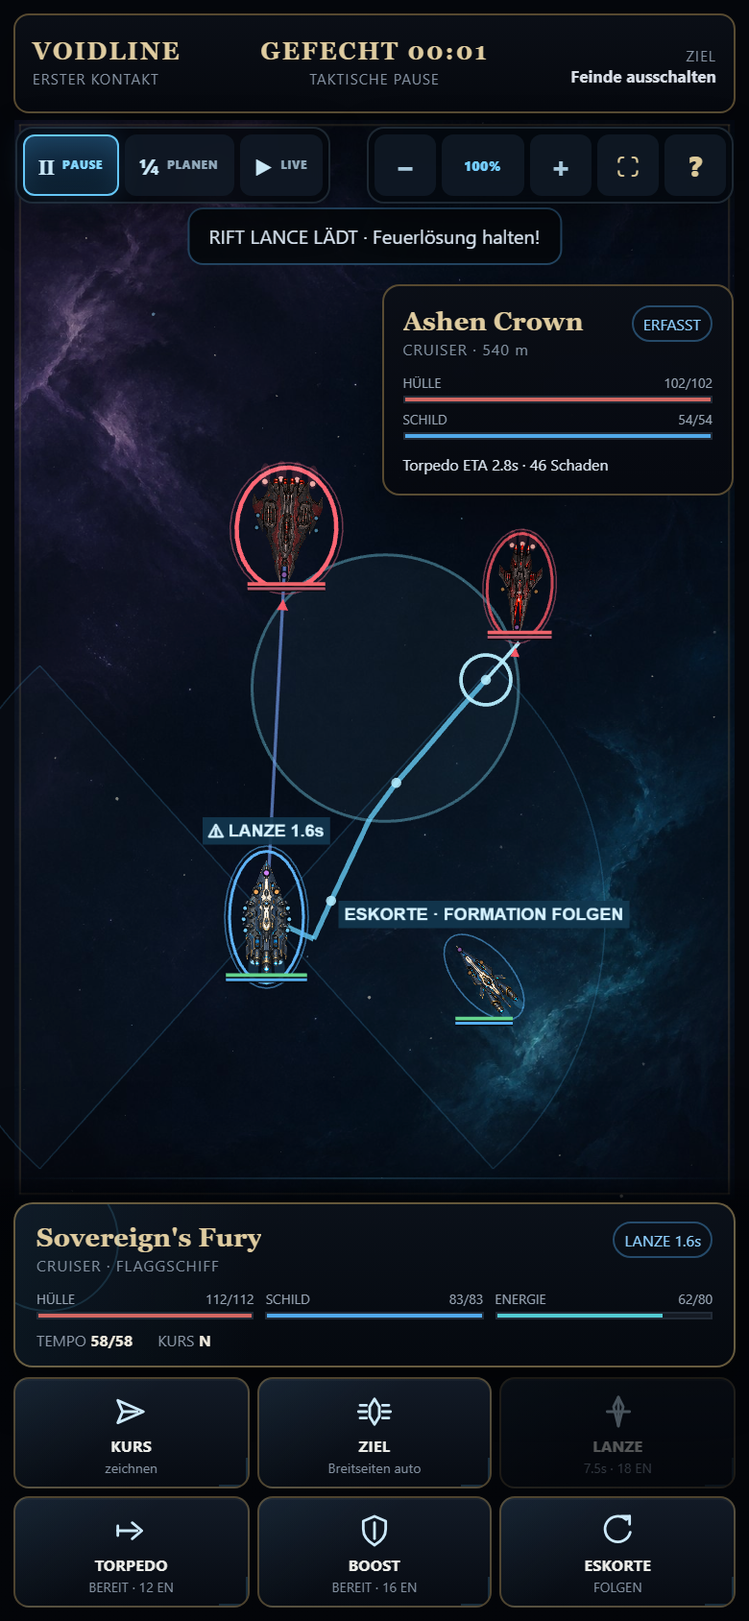
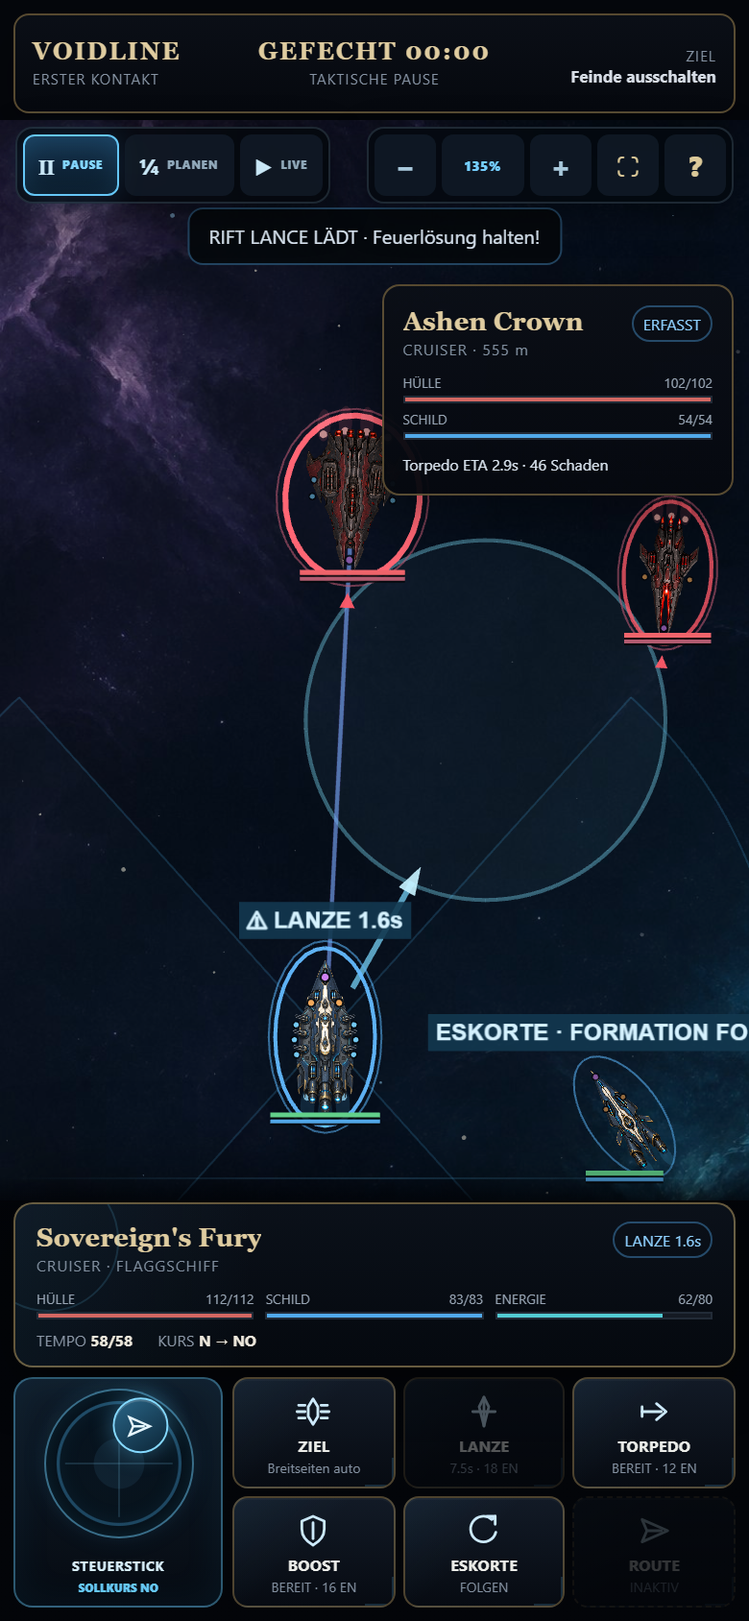
Document joystick control experiment

diff --git a/docs/planning/TOP_20_LEVERS.md b/docs/planning/TOP_20_LEVERS.md
@@ -8,31 +8,31 @@ Bewertungsbasis: aktueller 390×844-Build, drei reproduzierbare Screenshots, aut
 
 | Bereich | Nähe zum Zielniveau | Einordnung |
 |---|---:|---|
-| Mobile Layout und Bedienbarkeit | 82 % | volle Breite, Safe Areas, Pause/Slow/Live, Pinch und große Touch-Ziele funktionieren |
+| Mobile Layout und Bedienbarkeit | 83 % | volle Breite, Safe Areas, Zwei-Daumen-HUD, Pause/Slow/Live und Pinch funktionieren; Joystick noch nicht extern validiert |
 | Informationshierarchie und HUD | 68 % | deutlich strukturierter und eigenständig; Materialtiefe, Micro-Motion und Onboarding fehlen |
 | Schiffssilhouetten und Hardpoints | 72 % | vier originale, lesbare Schiffe; Damage States und modulare Varianten fehlen |
 | Battlefield und Atmosphäre | 62 % | hochwertige Basis und gute Kontraste; räumliche Tiefe und taktische Vielfalt fehlen |
-| Combat-Regeln und Flow | 70 % | Echtzeit-Pivot löst Statik; Balance und Verständlichkeit sind noch nicht extern validiert |
+| Combat-Regeln und Flow | 72 % | Echtzeit-Pivot und persistenter Sollkurs lösen Statik; Steuergefühl, Tempo und Verständlichkeit sind noch nicht extern validiert |
 | VFX und Treffergefühl | 38 % | klare Prototyp-Effekte vorhanden, aber noch keine Produktionschoreografie |
 | Audio | 0 % | größter vollständig fehlender Qualitätsmultiplikator |
 | Meta-Loop und Progression | 22 % | Auswahl/Preview vorhanden, Results, echte Upgrades, Save und Replay fehlen |
-| Gesamtprodukt | **ca. 57 %** | optisch schon klar über Greybox, aber noch kein veröffentlichungsreifer Vertical Slice |
+| Gesamtprodukt | **ca. 58 %** | optisch schon klar über Greybox, aber Steuerung, Audio, Combat Feel und Produktloop sind noch nicht release-reif |
 
-Die 57 % sind keine Zeitschätzung. Sie beschreiben die wahrnehmbare Produktreife gegenüber dem Zielbild. Audio, Reaktion, Onboarding und ein geschlossener Loop wiegen stärker als zusätzliche statische Assets.
+Die 58 % sind keine Zeitschätzung. Sie beschreiben die wahrnehmbare Produktreife gegenüber dem Zielbild. Audio, Reaktion, Onboarding und ein geschlossener Loop wiegen stärker als zusätzliche statische Assets.
 
 ## Die nächsten 20 Hebel in Prioritätsreihenfolge
 
 | # | Hebel | Warum jetzt | Messbare Abnahme |
 |---:|---|---|---|
-| 1 | 60-Sekunden-Kontext-Onboarding | Der neue Flow ist grundlegend anders; Verständlichkeit darf nicht von der Hilfeseite abhängen. | 4/5 Erstspieler setzen Kurs, Ziel und Pause ohne Erklärung; Erstaktion ≤20 s. |
-| 2 | Echter Mobile-Playtest plus Session-Telemetrie | Der Pivot ist technisch validiert, aber Tempo und Entscheidungsdichte noch nicht menschlich. | Fünf Runs mit Erstaktion, Ersttreffer, Kampfzeit, Fehl-Taps, Kurswechseln und Kurzinterview dokumentiert. |
+| 1 | Joystick-Test und Control Decision | Der neue Stick ist bewusst ein Experiment; weitere Systeme sollten nicht auf ungeprüfter Eingabe aufbauen. | Drei kurze Mobile-Runs klären Richtungswahl, Kurs-Halten, Kamera und Wunsch nach Schub; Entscheidung für Joystick, Joystick + Schub oder Pause-Route dokumentiert. |
+| 2 | 60-Sekunden-Kontext-Onboarding plus Session-Telemetrie | Verständlichkeit darf nicht von der Hilfeseite abhängen und braucht reale Daten. | 4/5 Erstspieler setzen Sollkurs, Ziel und Pause ohne Erklärung; Erstaktion ≤20 s; Fehl-Taps und Kurskorrekturen protokolliert. |
 | 3 | Lance-Telegraph als audiovisuelle Referenzqualität | Er ist die zentrale Reaktionsentscheidung und definiert die Qualität aller späteren Telegraphs. | Warm-up, Richtungsanzeige, Riser, Release und Impact sind ohne HUD verständlich; Reaktionsfenster messbar. |
 | 4 | Broadside-Salvenchoreografie | Auto-Feuer muss Gewicht geben, ohne Aufmerksamkeit zu stehlen. | Hardpoints feuern gestaffelt, Recoil/Travel/Impact sind klassenspezifisch und gepoolt. |
 | 5 | Torpedo-Readability und Zielwarnung | Physische Torpedos sind ein Kernversprechen und brauchen eine klare Reise statt nur einen Marker. | Trail, Turn, Warnung, ETA und Explosion sind bei 100–180 % Zoom durchgängig verfolgbar. |
 | 6 | Original-Audio-Foundation | Audio ist der größte noch fehlende Qualitätsmultiplikator. | Vier Busse, Mobile-Unlock, Suspend/Resume, Mute/Volume und erste originale UI-/Weapon-/Impact-Sets. |
 | 7 | Trefferreaktionen und Damage States | Treffer verändern aktuell Zahlen stärker als das sichtbare Schiff. | Shield deformation, Hull flash, Debris und intakt/beschädigt/kritisch pro Schiff lesbar. |
 | 8 | Kamera-Follow und Action Framing | Die starre Gesamtansicht begrenzt Dynamik, zu viel Autofokus würde Touch-Kontrolle stören. | Sanftes Flaggschiff-/Ziel-Framing, kurzer begrenzter Impact-Impuls, Pinch hat immer Vorrang. |
-| 9 | Route/Pan-Gesten sauber trennen | Mit mehr Zoom darf Kurszeichnen nicht mit Kameranavigation kollidieren. | Ein-Finger-Kurs nur im Modus/ab Schiff, klarer Cancel, Zwei-Finger-Pan/Pinch ohne Fehlroute. |
+| 9 | Joystick-Ergonomie und reversible Route | Dead Zone, Reichweite und Halteverhalten müssen auf kleinen Phones sitzen; die Route bleibt bis zur Entscheidung verfügbar. | Keine Fehlsteuerung neben dem Stick, Pinch bleibt konfliktfrei; optionaler Schub und Pause-Route werden gegen dieselben Testkriterien bewertet. |
 | 10 | Escort-Direktiven taktisch differenzieren | Vier Labels reichen nicht; jede Direktive muss eine echte Positionsentscheidung erzeugen. | Folgen, beide Flanken und Schutz haben messbar andere Abstände, Ziele, Risiko und VFX-Feedback. |
 | 11 | Gegnerrollen und Telegraph-Grammatik | Gegner unterscheiden sich optisch, aber noch nicht deutlich genug im Verhalten. | Cruiser und Destroyer werden nach 30 s korrekt beschrieben; Symbole/Formen ergänzen Farbe. |
 | 12 | Encounter-Geometrie und zweites Terrain | Ein Kreis mit Schadensreduktion trägt keine dauerhafte Positionierung. | Zweites Element erzwingt mindestens zwei alternative Routen und verändert Waffen-/Formationstiming. |
@@ -49,7 +49,7 @@ Die 57 % sind keine Zeitschätzung. Sie beschreiben die wahrnehmbare Produktreif
 
 ### Paket 1 — Verständlichkeit und Messung
 
-Hebel 1, 2, 9, 15. Erst damit wissen wir, ob der neue Kern tatsächlich die richtige Dynamik erzeugt.
+Hebel 1, 2, 9, 15. Erst damit wissen wir, ob Joystick und Echtzeitkern tatsächlich die richtige Dynamik erzeugen.
 
 ### Paket 2 — Wahrnehmbares Combat Feel
 

diff --git a/README.md b/README.md
@@ -2,25 +2,25 @@
 
 [![Deploy GitHub Pages](https://github.com/emfau88/Voidline-Tactic/actions/workflows/deploy-pages.yml/badge.svg)](https://github.com/emfau88/Voidline-Tactic/actions/workflows/deploy-pages.yml)
 
-Mobile-first 2D-Flottentaktik in langsamer Echtzeit mit taktischer Pause: Du steuerst ein Flaggschiff direkt, zeichnest seinen Kurs, markierst Feuerziele und löst entscheidende Systeme selbst aus. Die Eskorte handelt halbautonom, Standardbatterien feuern aus passenden Seitenbögen und gegnerische Spezialangriffe werden sichtbar angekündigt.
+Mobile-first 2D-Flottentaktik in langsamer Echtzeit mit taktischer Pause: Du steuerst den Sollkurs eines Flaggschiffs per virtuellem Joystick, markierst Feuerziele und löst entscheidende Systeme selbst aus. Die Eskorte handelt halbautonom, Standardbatterien feuern aus passenden Seitenbögen und gegnerische Spezialangriffe werden sichtbar angekündigt.
 
 ## [▶ Jetzt im Browser spielen](https://emfau88.github.io/Voidline-Tactic/)
 
-Der aktuelle Stand ist ein bedienbarer 2-gegen-2-Vertical-Slice mit Startschiffwahl, zwei Flaggschiff-Doktrinen, direkten Kursen, Fokusziel, vier Eskorte-Befehlen, Auto-Breitseiten, aufladbarer Rift Lance, physischen Void Torpedoes und aktivem Schild-Boost. **Pause**, **¼-Tempo** und **Live** können jederzeit gewechselt werden.
+Der aktuelle Stand ist ein bedienbarer 2-gegen-2-Vertical-Slice mit Startschiffwahl, zwei Flaggschiff-Doktrinen, direkter Joystick-Steuerung, Fokusziel, vier Eskorte-Befehlen, Auto-Breitseiten, aufladbarer Rift Lance, physischen Void Torpedoes und aktivem Schild-Boost. **Pause**, **¼-Tempo** und **Live** können jederzeit gewechselt werden. Die frühere Kurszeichnung bleibt im Code erhalten, ist für diesen Steuerungstest aber bewusst inaktiv.
 
-Die App nutzt auf Phones die volle verfügbare Breite, rendert bis zu 2× HiDPI und bietet 80–180 % taktischen Zoom per Zwei-Finger-Geste, Buttons und Mausrad. Browser-Vollbild wird verwendet, wenn die Plattform ihn für Webseiten erlaubt; auf iOS ergänzt das installierbare Web-App-Manifest den „Zum Home-Bildschirm“-Fallback.
+Die App nutzt auf Phones die volle verfügbare Breite, startet mit einer nahen 135-%-Kamera, rendert bis zu 2× HiDPI und bietet 80–180 % taktischen Zoom per Zwei-Finger-Geste, Buttons und Mausrad. Browser-Vollbild wird verwendet, wenn die Plattform ihn für Webseiten erlaubt; auf iOS ergänzt das installierbare Web-App-Manifest den „Zum Home-Bildschirm“-Fallback.
 
 ## Aktueller Mobile-Build
 
-| Startschiff und Refit-Vorschau | Laufendes 2-gegen-2-Gefecht | Pause, Kurs und Lance-Telegraph |
+| Startschiff und Refit-Vorschau | Laufendes 2-gegen-2-Gefecht | Pause, Joystick und Lance-Telegraph |
 |---|---|---|
-| [<img src="docs/screenshots/mobile-fleet-selection.png" alt="Mobile Startschiffwahl mit Refit-Vorschau" width="260">](docs/screenshots/mobile-fleet-selection.png) | [<img src="docs/screenshots/mobile-combat-overview.png" alt="Mobile Echtzeit-Gefechtsübersicht mit gut markierten Gegnern" width="260">](docs/screenshots/mobile-combat-overview.png) | [<img src="docs/screenshots/mobile-target-preview.png" alt="Taktische Pause mit gezeichnetem Kurs, Zielkarte und Lance-Telegraph" width="260">](docs/screenshots/mobile-target-preview.png) |
+| [<img src="docs/screenshots/mobile-fleet-selection.png" alt="Mobile Startschiffwahl mit Refit-Vorschau" width="260">](docs/screenshots/mobile-fleet-selection.png) | [<img src="docs/screenshots/mobile-combat-overview.png" alt="Mobile Echtzeit-Gefechtsübersicht mit Joystick, Sollkurs und gut markierten Gegnern" width="260">](docs/screenshots/mobile-combat-overview.png) | [<img src="docs/screenshots/mobile-target-preview.png" alt="Taktische Pause mit Joystick-Sollkurs, Zielkarte und Lance-Telegraph" width="260">](docs/screenshots/mobile-target-preview.png) |
 
 Die Galerie wird reproduzierbar mit `npm run capture:readme` gegen den lokalen Server oder über `CAPTURE_BASE_URL` gegen einen anderen Build aktualisiert.
 
 ## So funktioniert der Kampf
 
-1. **Kurs:** Vom Flaggschiff ziehen oder KURS wählen und eine Route auf das Spielfeld zeichnen. Masse, Beschleunigung und Drehrate bleiben relevant.
+1. **Steuern:** Den linken Stick in die gewünschte Richtung ziehen. Das Schiff dreht entsprechend Masse und Drehrate auf den angezeigten Sollkurs; beim Loslassen bleibt dieser Kurs aktiv.
 2. **Ziel:** Einen Gegner antippen. Verfügbare Breitseiten feuern automatisch, sobald Entfernung und Seitenbogen passen.
 3. **Spezialsysteme:** Lanze, Torpedo und Schild-Boost selbst auslösen. Die Lanze braucht eine stabile Feuerlösung; Torpedos existieren sichtbar im Raum und besitzen keinen Miss-Wurf.
 4. **Zeit:** Mit PAUSE vollständig anhalten, in PLANEN auf ¼-Tempo beobachten oder mit LIVE normal weiterlaufen lassen. Alle Befehle bleiben in der Pause verfügbar.
@@ -33,12 +33,13 @@ Die Kernidee ist bewusste Verantwortungsteilung: Der Spieler trifft wenige hochw
 - ✅ mobile-first App-Shell, Safe Areas, Fullscreen-Fallback, HiDPI und 80–180-%-Pinch-Zoom
 - ✅ Startmenü mit Cruiser-/Frigate-Wahl, sichtbaren Loadouts und Refit-Vorschau
 - ✅ deterministische 30-Hz-Fixed-Step-Simulation ohne versteckte Treffer- oder Abfangwürfe
-- ✅ direkte träge Flaggschiff-Kinematik mit geglätteten Zeichenrouten
+- ✅ direkte träge Flaggschiff-Kinematik mit persistentem Joystick-Sollkurs und sichtbarer Kursanzeige
+- 🧪 Kurszeichnung als reversible Alternative erhalten, aber im aktuellen Build bewusst inaktiv
 - ✅ halbautonome Eskorte mit vier Direktiven und gegnerische Echtzeit-KI
 - ✅ Auto-Breitseiten, manuelle Lanze/Torpedo/Schild-Systeme, Cooldowns und Energie
 - ✅ physische Homing-Torpedos, Lance-Telegraph, Hardpoint-VFX, Nebel-Cover und Sieg/Niederlage
 - ✅ Pause, ¼-Tempo und Live während jeder Kampfaktion
-- ✅ 14 Unit-Tests und 14 Mobile-/Desktop-Browser-Läufe einschließlich Multi-Touch, Pause und HiDPI
+- ✅ 15 Unit-Tests und 14 Mobile-/Desktop-Browser-Läufe einschließlich Joystick, Multi-Touch, Pause und HiDPI
 - ✅ automatisches, CI-geprüftes GitHub-Pages-Deployment
 - 🚧 Combat-Feel-Pass: tiefere VFX, Trefferreaktionen, Kamera-Choreografie, Audio und Onboarding
 - ⏳ Mission Results, Rewards, Shipyard-Upgrades und Persistenz

diff --git a/ROADMAP.md b/ROADMAP.md
@@ -32,16 +32,16 @@ Stand: 22. August 2026
 - kontinuierliche Position, Facing, Geschwindigkeit, Beschleunigung und begrenzte Drehrate
 - datengetriebene Definitionen für vier Schiffe und drei Waffenfamilien
 - Energie, Cooldowns, Hull, Shield, Armor, Shield-Boost und Nebelreduktion
-- direkte Flaggschiff-Kurse, Fokusziel und vier Eskorte-Direktiven
+- persistenter Flaggschiff-Sollkurs, Routendaten, Fokusziel und vier Eskorte-Direktiven
 - Auto-Breitseiten, aufladbare Lance und physische Homing-Torpedos
 - halbautonome Formation sowie gegnerische Approach-/Orbit-KI auf derselben Regelbasis
 - garantierte deterministische Treffer bei gültiger Lösung; keine Miss-/Intercept-Würfe
-- 14 Unit-Tests für Kinematik, Waffen, Telegraph, Projectile, Cover und Hardpoints
+- 15 Unit-Tests für Kinematik, Joystick-Sollkurs, Waffen, Telegraph, Projectile, Cover und Hardpoints
 
 ## M3 – Spielbarer 2-gegen-2-Echtzeit-Slice ✅
 
 - Cruiser-/Frigate-Auswahl mit spielwirksamer Flaggschiff-Doktrin
-- direkte geglättete Kurszeichnung auf Touch und Maus
+- direkter persistenter Sollkurs per Touch-/Maus-Joystick; frühere Kurszeichnung bleibt dormant erhalten
 - Zielerfassung als gemeinsamer Fokus für Flaggschiff und Eskorte
 - jederzeit verfügbare taktische Pause, ¼-Tempo und Live
 - verständlicher Zwei-Reihen-HUD mit Status, Tempo, Energie, Cooldowns und Direktive
@@ -49,7 +49,7 @@ Stand: 22. August 2026
 - sichtbare Lance-Ladephase, physische Torpedos, Shield-Ripple und Hardpoint-Feuer
 - taktischer Nebel mit 25 % Schadensreduktion
 - Hilfe, Toasts, Ergebnisdialog, Restart und Reduced-Motion-Fallback
-- sieben E2E-Flows auf Mobile und Desktop: Shell, Pause, Kurs, Lance, Torpedo/Eskorte, Hilfe und Pinch
+- sieben E2E-Flows auf Mobile und Desktop: Shell, Pause/Joystick, Lance, Torpedo/Eskorte, Hilfe und Pinch
 
 ## M3.5 – Design-Pivot von Command Beats zu Tactical Real-Time ✅
 
@@ -60,12 +60,23 @@ Stand: 22. August 2026
 - Anfangsdistanzen für einen schnellen ersten Kontakt reduziert
 - Roadmap, Vision, Produktionsplan, README, Tests und Screenshots auf das neue Modell umgestellt
 
+## M3.6 – Experimentelle Joystick-Steuerung ✅
+
+- absoluter Richtungs-Joystick setzt einen persistenten Sollkurs statt einer kurzen Bewegungsaktion
+- Loslassen hält den Sollkurs; Masse, Beschleunigung und Drehrate bleiben spielwirksam
+- Zwei-Daumen-HUD mit Steuerung links und Kampfsystemen rechts
+- aktuelle und gewünschte Ausrichtung sowie ein heller Richtungsvektor im Spielfeld
+- nähere 135-%-Startkamera mit sanftem Vorhaltepunkt in Fahrtrichtung
+- Kurszeichnung technisch erhalten, im HUD klar als inaktiv markiert und gegen Eingaben gesperrt
+- 15 Unit-Tests und 14 Mobile-/Desktop-E2E-Läufe grün
+- neue reproduzierbare README-Screenshots für Joystick, Zielwahl und Telegraph
+
 ## M4 – Combat Feel und visuelle Produktionsreife 🚧
 
 - ✅ vier originale, gut unterscheidbare Schiffssilhouetten mit vollständigen Hardpoints
 - ✅ originales Nebula-Schlachtfeld und zwei subtile Sternlayer
 - ✅ erster hochwertiger HUD-System-Pass mit eigenständigen Vektoricons
-- ✅ klare Ziele, Route, Feuerbögen, Formation und Telegraph-Zustände
+- ✅ klare Ziele, Sollkurs, Feuerbögen, Formation und Telegraph-Zustände
 - ✅ drei reproduzierbare Mobile-Screenshots für README und Standabnahme
 - 🚧 gestaffelte Waffen-Choreografien, VFX-Pooling und klassenspezifische Trefferreaktionen
 - 🚧 Kamera-Fokus, kurzer Impact-Zoom und lesbares Action Framing
@@ -76,7 +87,7 @@ Stand: 22. August 2026
 
 ### Abnahme M4
 
-- fünf Erstspieler verstehen Kurs, Ziel, Pause und ein Spezialsystem ohne externe Erklärung
+- fünf Erstspieler verstehen Joystick-Sollkurs, Ziel, Pause und ein Spezialsystem ohne externe Erklärung
 - erste bewusste Aktion in höchstens 20 Sekunden, erster Waffeneffekt in höchstens 35 Sekunden
 - ein Kampf dauert im Median 3–5 Minuten und erzeugt mindestens drei relevante Kursentscheidungen
 - stabile 60 FPS im Pixel-7-Profil, keine wachsenden VFX-Objektzahlen nach drei Restarts
@@ -108,6 +119,6 @@ Stand: 22. August 2026
 
 ## Aktuelle Position und nächster überprüfbarer Meilenstein
 
-Wir stehen nach **M3.5** am Beginn von **M4**. Der neue Kern ist funktional, deterministisch und browsergetestet; zur Qualität der Mockups fehlen vor allem audiovisuelle Reaktion, Kamera-Choreografie, Onboarding, taktische Encounter-Variation und der spielbare Refit-Loop.
+Wir stehen nach **M3.6** am Beginn von **M4**. Der Joystick-Build ist funktional, deterministisch und browsergetestet; die endgültige Eingabeentscheidung ist bewusst noch offen. Die Kurszeichnung bleibt erhalten, bis ein echter Mobile-Test geklärt hat, ob der Joystick primär bleibt, um eine Geschwindigkeitsregelung ergänzt wird oder die Route als Pause-Werkzeug zurückkehrt.
 
-Der nächste überprüfbare Meilenstein ist **M4.1 „Combat Feel + 60-Sekunden-Onboarding“**: Telegraph-Sprache vereinheitlichen, Weapon-/Impact-VFX vertiefen, Original-Audio integrieren, Kontext-Hinweise bauen und anschließend fünf echte Mobile-Erstspieler messen. Die genaue Reihenfolge und Abnahmekriterien stehen in den [Top-20-Hebeln](docs/planning/TOP_20_LEVERS.md).
+Der nächste überprüfbare Meilenstein ist **M4.0 „Control Decision“**: drei kurze Mobile-Runs mit dem Joystick durchführen und erfassen, ob Richtungswahl, dauerhaftes Weiterfliegen, Kamera und Gegnerlesbarkeit ohne Erklärung verstanden werden. Danach wird zwischen Joystick als Primärsteuerung, Joystick plus Schubregelung oder Route nur in der Pause entschieden. Anschließend folgt **M4.1 „Combat Feel + 60-Sekunden-Onboarding“**. Die genaue Reihenfolge und Abnahmekriterien stehen in den [Top-20-Hebeln](docs/planning/TOP_20_LEVERS.md).

diff --git a/docs/design/GAME_VISION.md b/docs/design/GAME_VISION.md
@@ -12,7 +12,7 @@ Combat-Modell: langsame Echtzeit mit taktischer Pause
 
 **Voidline Tactics ist ein lesbares, optisch hochwertiges 2D-Flottentaktikspiel, in dem der Spieler ein Flaggschiff direkt steuert, einer kleinen Eskorte Absichten vorgibt und wenige entscheidende Schiffssysteme im richtigen Moment auslöst.**
 
-Der Spieler soll sich wie ein Captain fühlen, nicht wie ein Buchhalter für vier Aktionsleisten. Die Flotte bewegt und verteidigt sich kontinuierlich; der Spieler zeichnet den Kurs, setzt den Fokus und übernimmt die dramatischen Entscheidungen.
+Der Spieler soll sich wie ein Captain fühlen, nicht wie ein Buchhalter für vier Aktionsleisten. Die Flotte bewegt und verteidigt sich kontinuierlich; der Spieler setzt den gewünschten Kurs, den Fokus und übernimmt die dramatischen Entscheidungen.
 
 Die taktische Pause ist kein Ausnahmezustand, sondern ein gleichwertiges Werkzeug. Sie lässt das Gefecht vollständig ruhen, ohne Aktionen zu sperren. ¼-Tempo erlaubt Beobachtung und Korrektur; Live sorgt für Fluss und Wirkung.
 
@@ -21,7 +21,7 @@ Die taktische Pause ist kein Ausnahmezustand, sondern ein gleichwertiges Werkzeu
 Ein neuer Spieler soll innerhalb der ersten Minute verstehen:
 
 1. Ich steuere das hervorgehobene Flaggschiff.
-2. Eine gezeichnete Route verändert Kurs und Feuerwinkel, aber nicht sofort die Position.
+2. Der Joystick setzt einen dauerhaften Sollkurs; das Schiff dreht und beschleunigt träge dorthin.
 3. Standardbatterien arbeiten automatisch.
 4. Lanze, Torpedo und Schild-Boost sind meine bewussten Entscheidungen.
 5. Pause ist jederzeit erlaubt und kostet nichts.
@@ -96,7 +96,7 @@ Der aktuelle Vertical Slice endet noch nach dem Kampf. Der vollständige Slice m
 
 | System | Spieler | Automation |
 |---|---|---|
-| Flaggschiff-Kurs | zeichnet Route | folgt träge der Route |
+| Flaggschiff-Kurs | setzt Sollrichtung per Joystick | dreht und beschleunigt träge auf den Sollkurs |
 | Fokusziel | markiert Gegner | Standardbatterien priorisieren ihn |
 | Eskorte | wählt Folgen/Flanke/Schutz | navigiert, hält Formation, nutzt Standardwaffen |
 | Broadside | stellt Kurs und Seitenbogen her | feuert bei gültiger Lösung |
@@ -111,7 +111,7 @@ Diese Trennung ist verbindlich. Weitere Systeme dürfen nur dann einen eigenen B
 
 ### Touch
 
-- Drag vom Flaggschiff oder KURS + Drag: Route zeichnen
+- linken Richtungs-Joystick ziehen: Sollkurs setzen; Loslassen hält die Richtung
 - Tap auf Gegner: Fokusziel setzen
 - Tap auf Fähigkeit: sofort auslösen oder Zielauswahl anfordern
 - Tap auf Eskorte: Direktive zyklisch wechseln
@@ -122,11 +122,15 @@ Diese Trennung ist verbindlich. Weitere Systeme dürfen nur dann einen eigenen B
 
 Die gleichen Regeln gelten für Maus. Mausrad und Zoom-Buttons ergänzen Pinch. Tastaturkürzel sind optional und dürfen kein exklusives Feature sein.
 
+### Offene Control-Entscheidung
+
+Der Joystick ist der aktive Primärprototyp. Die frühere geglättete Kurszeichnung bleibt technisch erhalten, ist im aktuellen Build jedoch inaktiv. Sie wird erst entfernt, wenn Mobile-Tests bestätigt haben, dass Richtungswahl, persistenter Kurs und Kameraführung ohne Erklärung funktionieren. Mögliche Ergebnisse sind: Joystick allein, Joystick plus Schubregelung oder Route ausschließlich während der taktischen Pause.
+
 ## 7. Combat-Systeme
 
 ### 7.1 Kinematik
 
-Jedes Schiff besitzt maximale Geschwindigkeit, Beschleunigung, Drehrate und Radius. Eine Route ist ein Zielpfad, kein Teleport. Große Schiffe wenden sichtbar langsamer als kleine.
+Jedes Schiff besitzt maximale Geschwindigkeit, Beschleunigung, Drehrate und Radius. Ein Sollkurs ist eine gewünschte Ausrichtung, kein Teleport oder Sofortdrehen. Große Schiffe wenden sichtbar langsamer als kleine. Eine spätere Pausenroute muss dieselben kinematischen Regeln verwenden.
 
 ### 7.2 Energie und Cooldowns
 

diff --git a/docs/planning/PRODUCTION_PLAN.md b/docs/planning/PRODUCTION_PLAN.md
@@ -39,6 +39,7 @@ Stärken:
 
 Aktuelle Produktionsrisiken:
 
+- die neue Joystick-Steuerung ist technisch abgesichert, aber noch nicht durch echte Mobile-Spieler validiert
 - `CombatScene` bündelt noch Eingabe, Kamera und VFX und sollte vor größerem Content modularisiert werden
 - VFX werden noch ad hoc erzeugt statt gepoolt
 - Audio-Layer fehlt vollständig
@@ -56,17 +57,26 @@ Ergebnis:
 - physische Torpedos und Lance-Telegraph
 - Pause, ¼-Tempo und Live
 - neuer Mobile-HUD und reproduzierbare Screenshots
-- 14 Unit- und 14 E2E-Läufe grün
+- 15 Unit- und 14 E2E-Läufe grün
 
 Commit: `e0bc84a`
+
+### A1. Mobile Joystick Experiment ✅
+
+- absoluter Richtungs-Joystick mit persistentem Sollkurs
+- Zwei-Daumen-HUD, Kursvektor und nähere 135-%-Kamera
+- frühere Kurszeichnung dormant und reversibel erhalten
+- 15 Unit- und 14 E2E-Läufe grün
+
+Commit: `06f9b51`
 
 ## 4. Phase B — Combat Feel und Onboarding 🚧
 
 ### B1. Lesbarkeit und Kontext-Onboarding
 
-- Intro-Hinweis zeigt Flaggschiff und fordert eine erste Route
+- Intro-Hinweis zeigt Flaggschiff und fordert einen ersten Joystick-Sollkurs
 - erster Gegnerkontakt erklärt Fokus und Auto-Broadside im Kontext
-- erste gegnerische Lance erklärt Pause und Kursreaktion
+- erste gegnerische Lance erklärt Pause und Joystick-Kursreaktion
 - erster Hull-Treffer erklärt Shield Boost
 - Hinweise verschwinden dauerhaft nach erfolgreicher Handlung
 - Hilfe bleibt als kurze Referenz erhalten
@@ -74,7 +84,7 @@ Commit: `e0bc84a`
 Abnahme:
 
 - fünf Erstspieler starten ohne mündliche Erklärung
-- vier verstehen Kurs, Ziel und Pause innerhalb von 60 Sekunden
+- vier verstehen Joystick-Sollkurs, Ziel und Pause innerhalb von 60 Sekunden
 - Fehl-Taps, Zeit bis Erstaktion und Zeit bis Ersttreffer werden protokolliert
 
 ### B2. Weapon-/Impact-Choreografie
@@ -169,7 +179,7 @@ Abnahme:
 |---|---|
 | Unit | Kinematik, Arcs, Energie, Cooldowns, Damage, Cover, Projectiles, AI-Direktiven, Save-Migration |
 | Integration | Fixed-Step über komplette Gefechte, Ergebnis und Upgrade-Auswirkung |
-| E2E Mobile | Startwahl, Pause, Kurs, Ziel, jedes manuelle System, Eskorte, Zoom, Results, Refit |
+| E2E Mobile | Startwahl, Pause, Joystick-Sollkurs, Ziel, jedes manuelle System, Eskorte, Zoom, Results, Refit |
 | E2E Desktop | identische Kernflows plus Maus/Mausrad |
 | Visual | Menü, Live, Telegraph-Pause, Explosion, Results, Shipyard |
 | Performance | 60 FPS Profil, Objektzahlen, drei Restarts, Hintergrund/Resume |
@@ -189,8 +199,8 @@ Eine Änderung ist fertig, wenn:
 
 ## 10. Nächste drei Produktionspakete
 
-1. **Onboarding + Telemetry:** Kontextschritte, lokale Session-Metriken und erster Fünf-Personen-Test.
-2. **Combat Feel:** VFX-Pooling, Lance/Broadside/Torpedo-Choreografie, Trefferzustände und Kamera.
+1. **Control Decision:** drei kurze Mobile-Runs, Joystick-Verständnis messen und zwischen Joystick, Schubergänzung oder Pause-Route entscheiden.
+2. **Onboarding + Combat Feel:** Kontextschritte, VFX-Pooling, Lance/Broadside/Torpedo-Choreografie, Trefferzustände und Kamera.
 3. **Audio Foundation:** Busse, Mobile-Unlock, erste originale Weapon-/Impact-Sets und Mix.
 
 Erst nach diesen drei Paketen beginnt der vollständige Results-/Shipyard-Loop.

diff --git a/docs/design/ART_AND_VFX_DIRECTION.md b/docs/design/ART_AND_VFX_DIRECTION.md
@@ -22,7 +22,7 @@ Vor kommerzieller Nutzung ist eine dokumentierte IP-/Trademark-Prüfung erforder
 In dieser Reihenfolge muss der Spieler Informationen erfassen:
 
 1. gefährlicher gegnerischer Telegraph und aktueller Zeitzustand
-2. Flaggschiff, Kurs, Facing und Feuerwinkel
+2. Flaggschiff, Sollkurs, Facing und Feuerwinkel
 3. Fokusziel und erwarteter Fähigkeitseffekt
 4. Hull, Shield, Tempo, Energy und Cooldowns
 5. laufender Lade-, Treffer- oder Schadenszustand
@@ -81,15 +81,15 @@ Quellauflösung soll mindestens die doppelte maximal sichtbare Größe abdecken.
 ### UI
 
 - ein vollständiges Panel-/Frame-System mit Nine-Slice-Exports
-- konsistente Icons für Kurs, Ziel, Lance, Torpedo, Boost, Eskorte, Energy, Hull, Shield und Cooldown
-- Reticles, Arc-Ränder, Kurssegmente, Telegraph-Richtung und Auswahlring
+- konsistente Icons für Joystick/Sollkurs, optionale Route, Ziel, Lance, Torpedo, Boost, Eskorte, Energy, Hull, Shield und Cooldown
+- Reticles, Arc-Ränder, Sollkurs-Vektor, optionale Kurssegmente, Telegraph-Richtung und Auswahlring
 - Bitmap-/Webfont mit klarer Lizenz und einer separaten Display-Schrift nur für Überschriften
 
 ### VFX
 
 - Engine idle und Engine thrust
 - Selection pulse und Target lock
-- Course trail, Wegpunkte und Destination marker
+- Sollkurs-Vektor sowie optionaler Course Trail, Wegpunkte und Destination Marker für eine spätere Pausenroute
 - Broadside: gestaffelte Muzzle Flashes, Tracer, Impact-Varianten
 - Lance: charge, beam core, glow, shield/hull contact
 - Torpedo: launch flash, projectile, smoke/ion trail, sichtbare Zielwarnung und impact

diff --git a/CHANGELOG.md b/CHANGELOG.md
@@ -4,6 +4,33 @@ Alle nachvollziehbaren Änderungen an Voidline Tactics werden hier chronologisch
 
 ## [Unreleased]
 
+### Mobile Joystick Experiment — 2026-08-22
+
+Meilenstein-Commit:
+
+- `06f9b51` – mobile Flaggschiff-Steuerung per persistentem Richtungs-Joystick
+
+#### Added
+
+- absoluter Touch-/Pointer-Joystick für den gewünschten Flaggschiff-Kurs
+- persistenter Sollkurs, der nach dem Loslassen des Sticks aktiv bleibt
+- Zwei-Daumen-Control-Deck mit Navigation links und Kampfsystemen rechts
+- sichtbarer Sollkurs-Vektor und Anzeige von aktueller zu gewünschter Ausrichtung
+- sanfte Vorhalte-Kamera mit näherem 135-%-Startzoom
+- Diagnosekoordinaten für kameraunabhängige Mobile-/Desktop-Browsertests
+- Unit-Test für Kurswechsel, Kursablösung und kontinuierliches Eindrehen nach dem Loslassen
+
+#### Changed
+
+- Mobile-HUD, Hilfe und Einstiegshinweis auf die experimentelle Joystick-Steuerung umgestellt
+- README-Kampfscreenshots mit dem neuen Control-Deck, näherer Kamera und Zielzustand aktualisiert
+- Qualitätsgate auf 15 Unit-Tests und 14 Mobile-/Desktop-E2E-Läufe erweitert
+
+#### Dormant
+
+- geglättete Kurszeichnung, Routendaten und Resolver bleiben im Projekt erhalten
+- direkte Kurszeichnung ist im aktuellen Build gegen Eingaben gesperrt; der Routenbutton kennzeichnet den A/B-Test sichtbar als inaktiv
+
 ### Tactical Real-Time Pivot — 2026-08-22
 
 Meilenstein-Commit:
